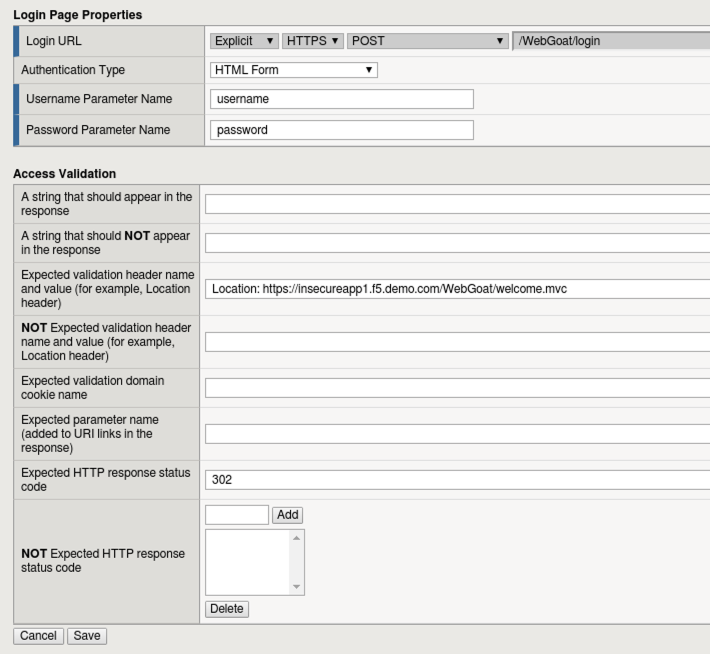
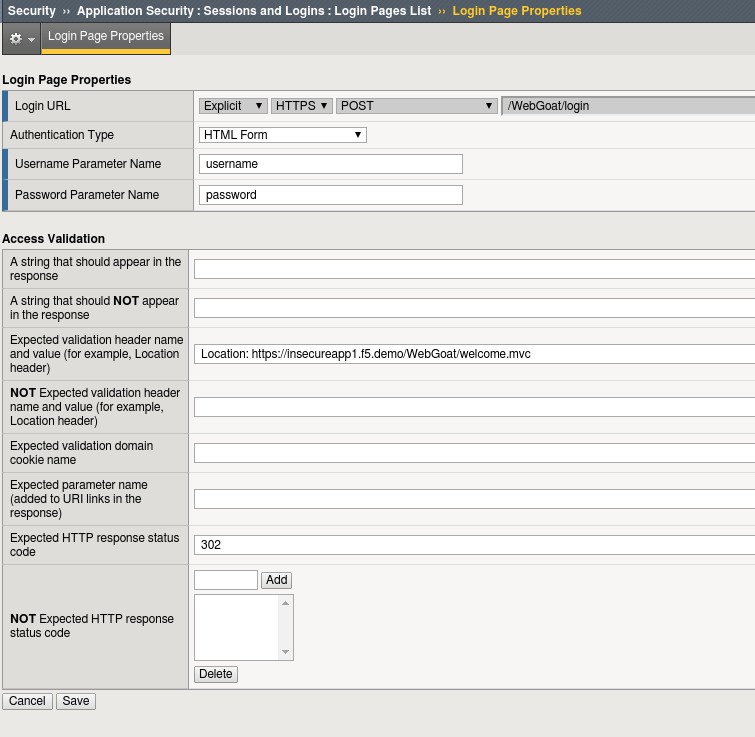
Fixed bad image and a couple typos. -JD

Changed region(s): [[0.0, 0.0, 1.0, 0.9786], [0.0, 0.9174, 0.1549, 1.0]]

diff --git a/docs/class4/module2/lab1/lab1.rst b/docs/class4/module2/lab1/lab1.rst
@@ -94,7 +94,7 @@ Train the DoS Profile
         ./baseline_menu_SSL.sh
     ..
 
-#.  Select either **option 1** or **option 2**, but notice that option 3 stops the attack.  You will use this later.
+#.  Select either **option 1** or **option 2**, but notice that option 3 stops the script.  You will use this later.
 
     |lab21-06|
 

diff --git a/docs/class4/module3/lab1/lab1.rst b/docs/class4/module3/lab1/lab1.rst
@@ -69,7 +69,7 @@ Task 2 - Import the Scan Data
 
         |lab31-04|
 
-#.  Import the **webgoat.xml** file from **/home/f5student/ASM241** .
+#.  Import the **webgoat.xml** file from **/home/f5student/WAF241** .
 
         |lab31-05|
 
